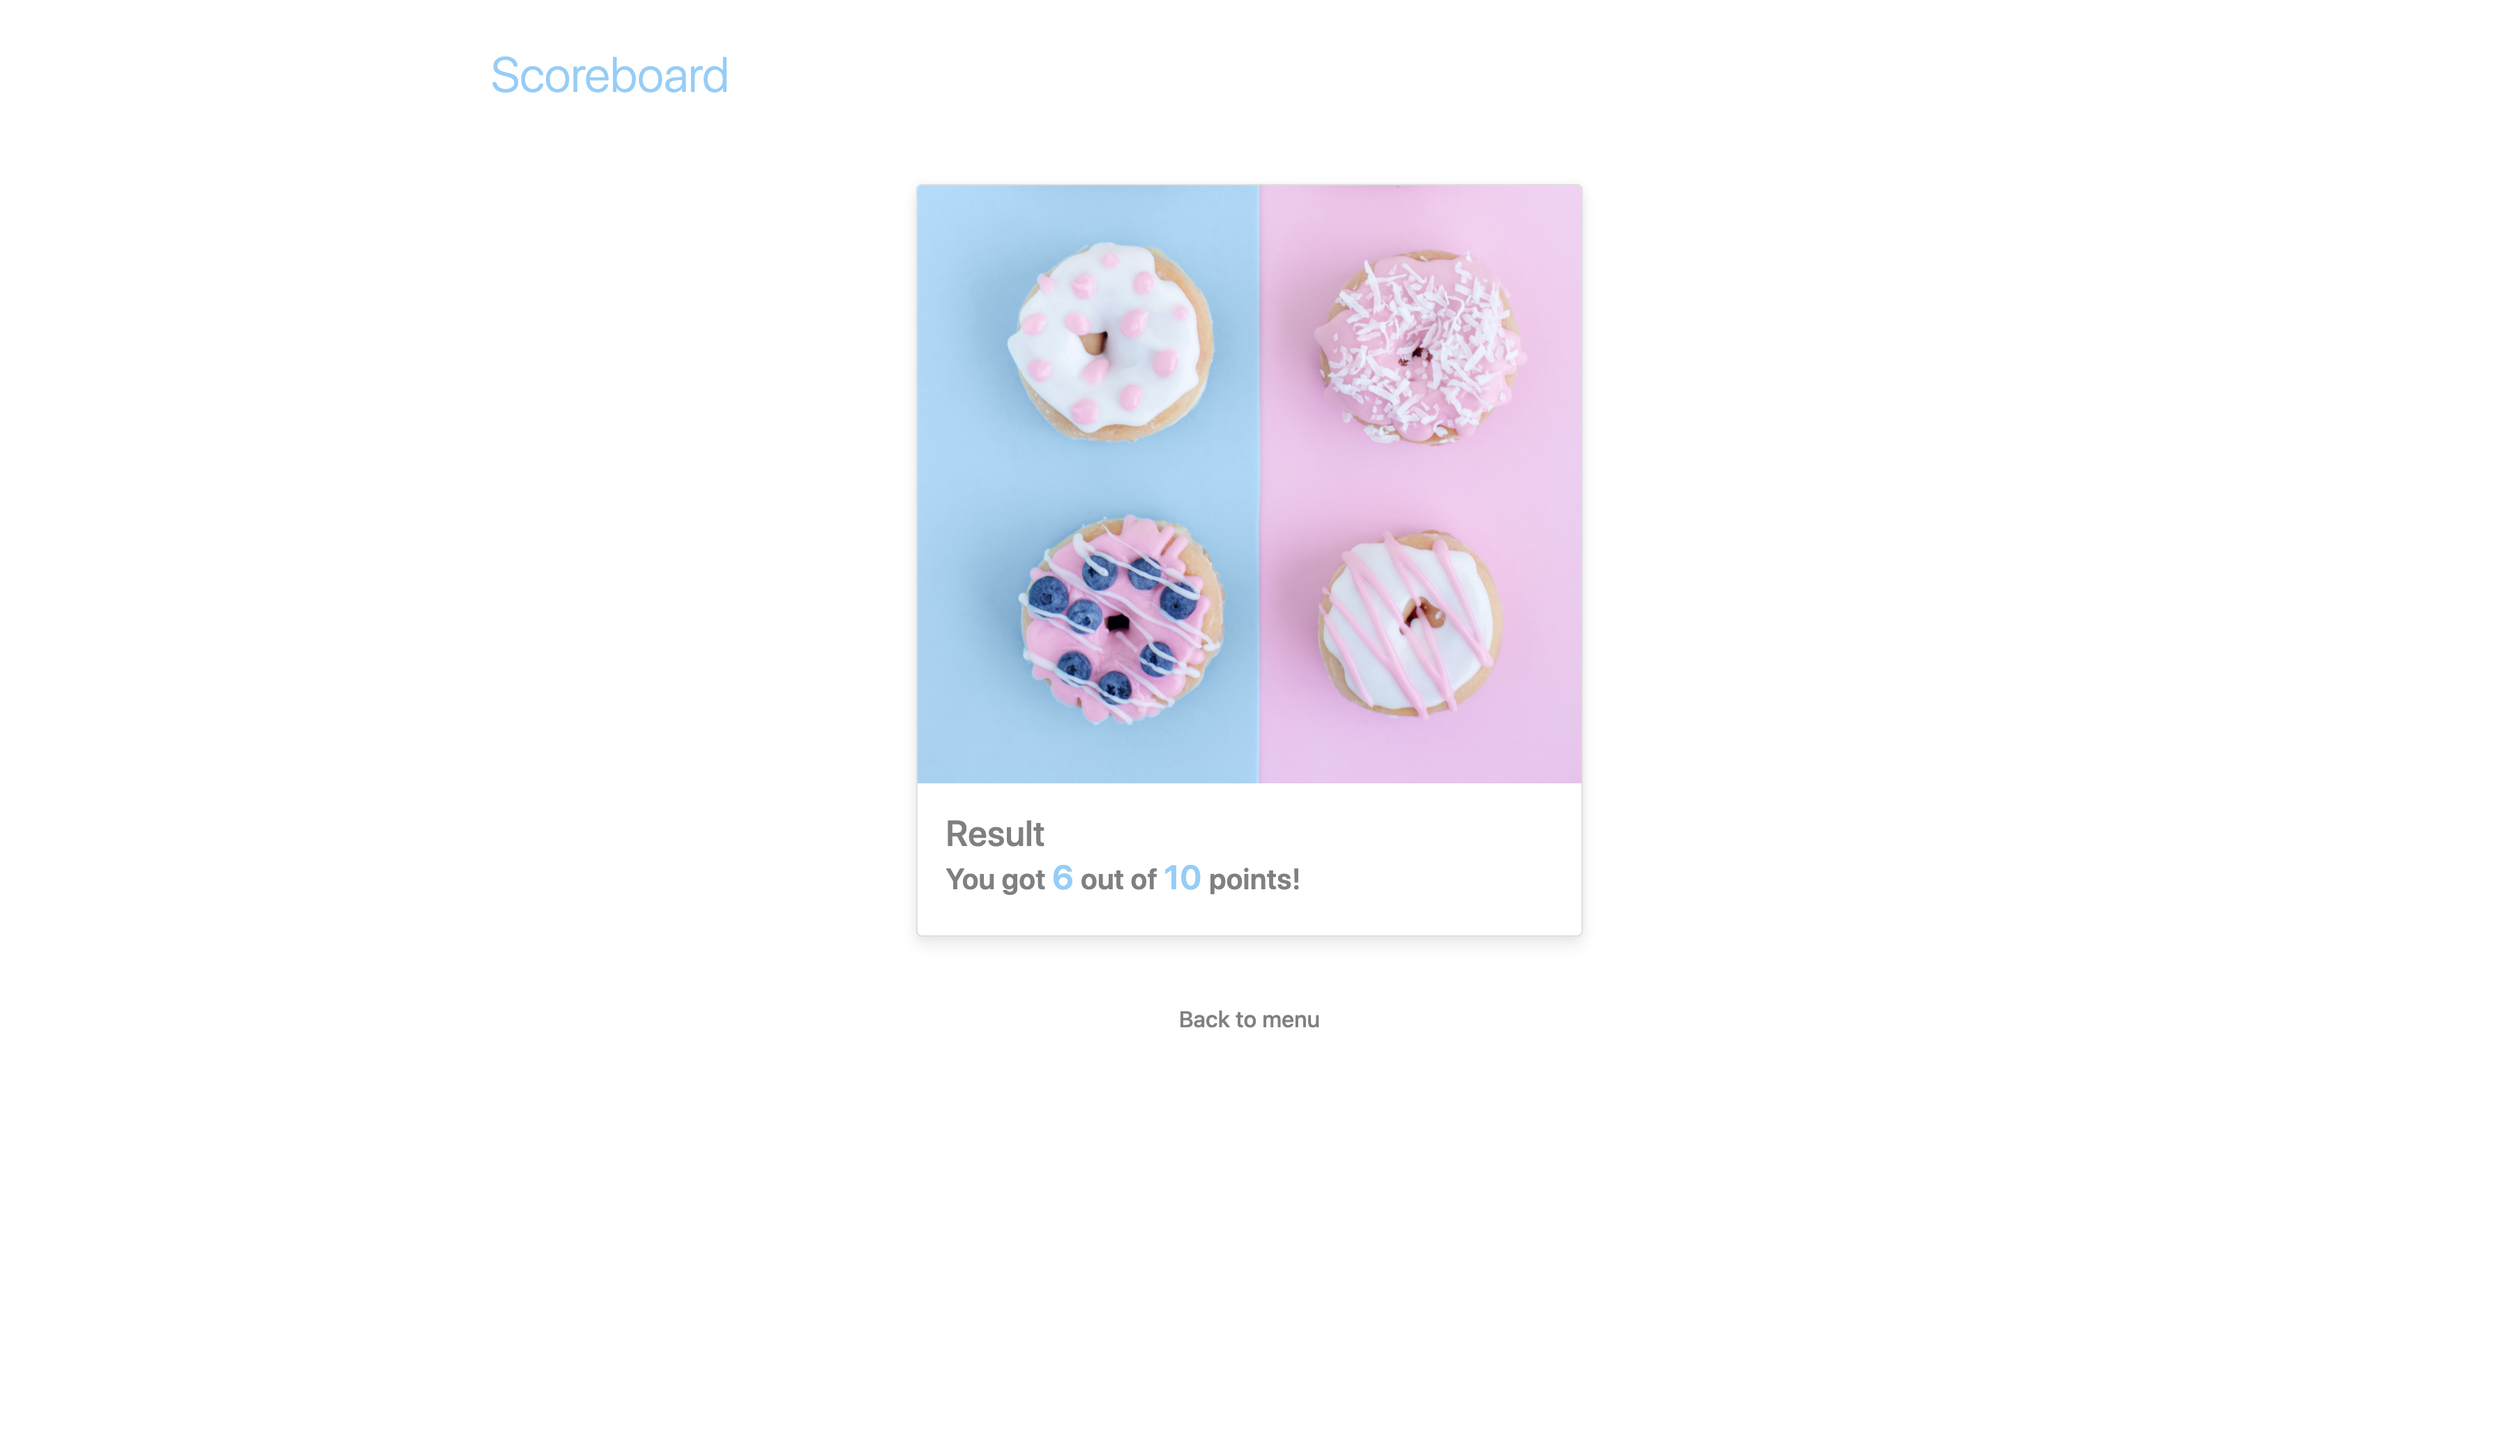
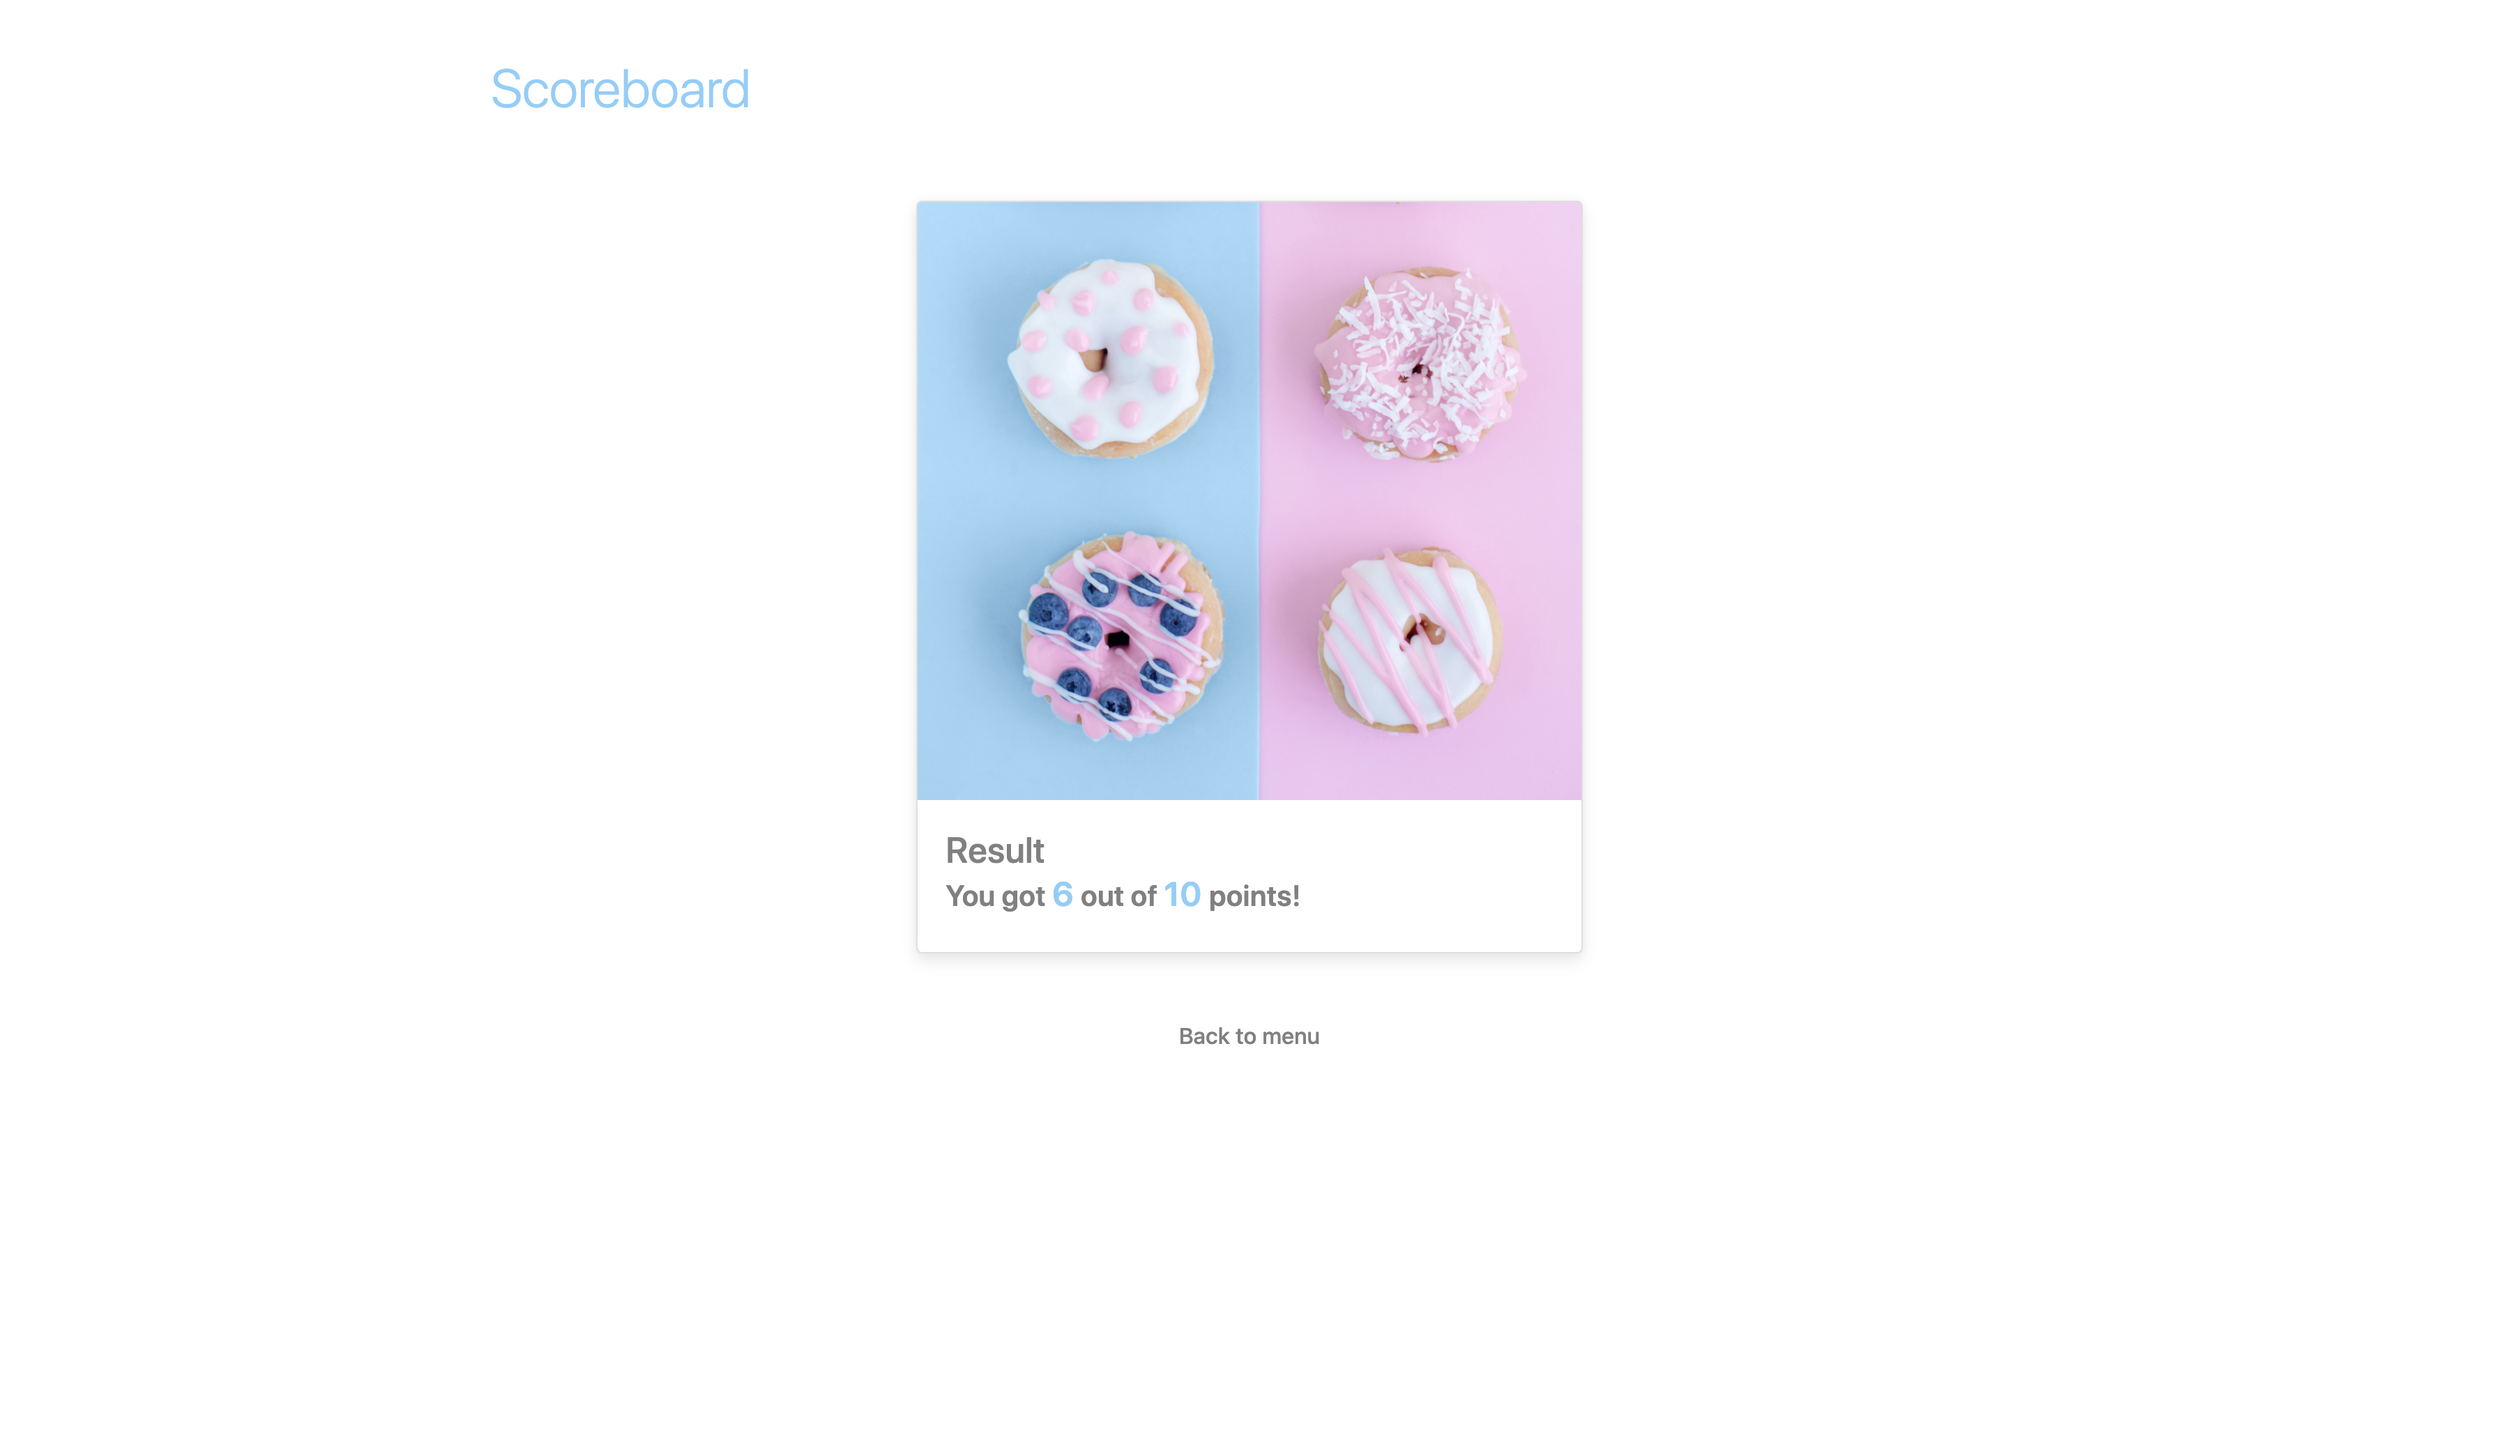
Updated score board text and added new application shot.

diff --git a/src/app/components/score/score.component.css b/src/app/components/score/score.component.css
@@ -8,10 +8,10 @@
 }
 
 h1{
-    margin-top: 2rem;
+    margin-top: 2.5rem;
     margin-bottom:1rem;
     margin-left: 22rem;
-    font-size: 2.2rem;
+    font-size: 2.4rem;
     color: lightskyblue;
 }
 
